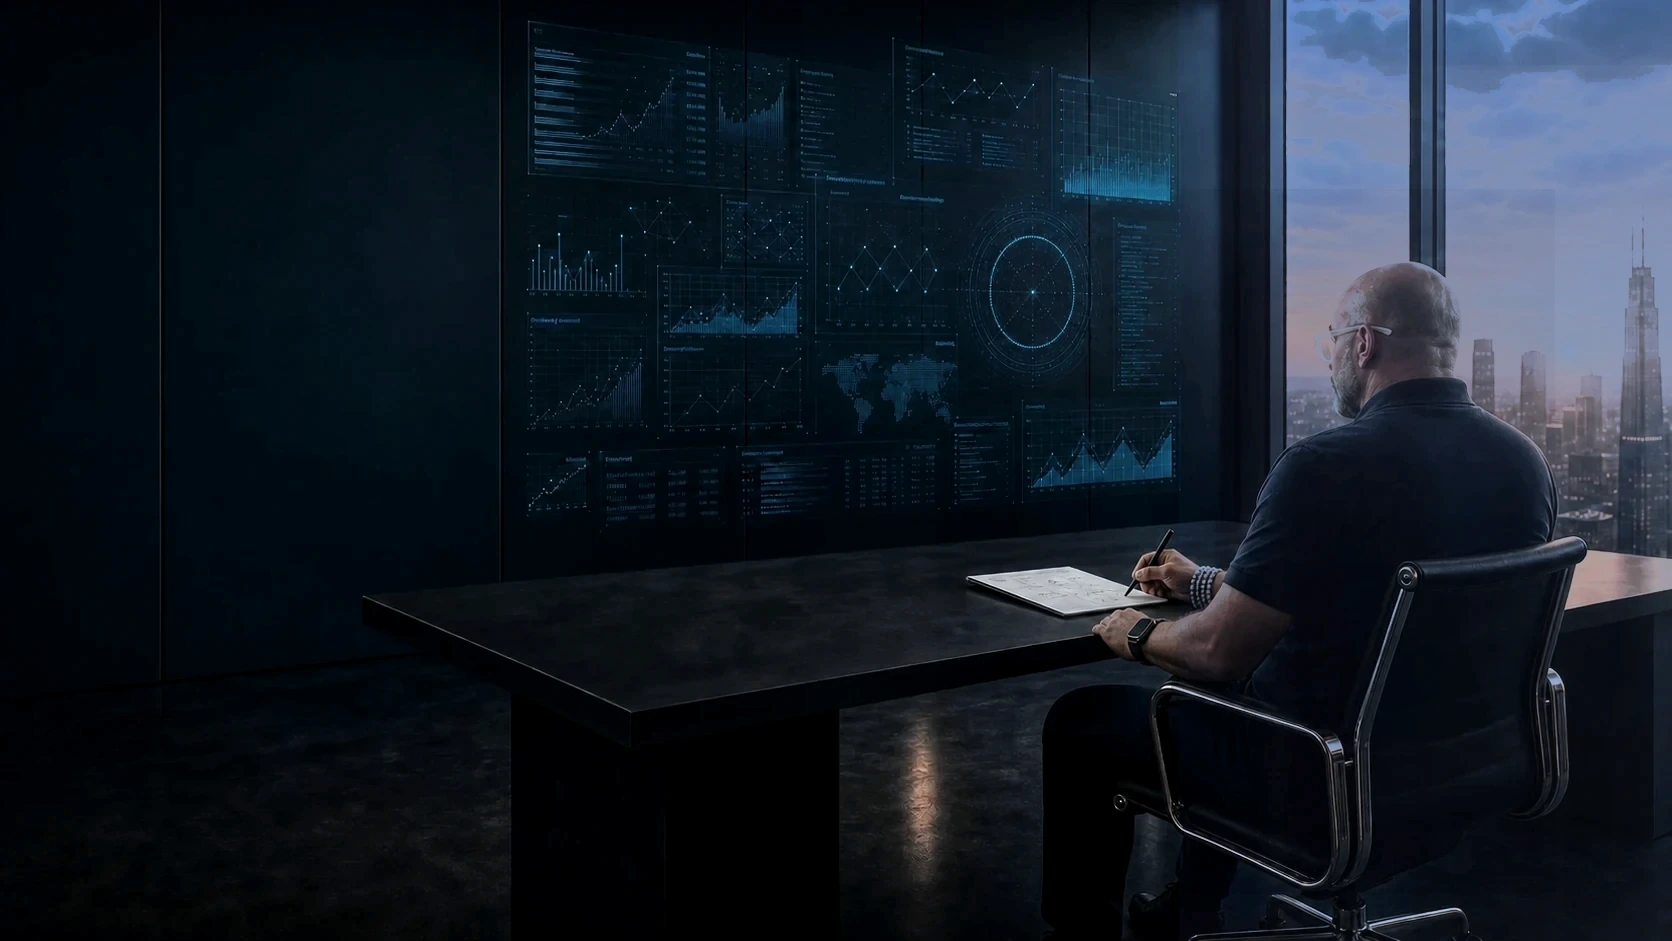
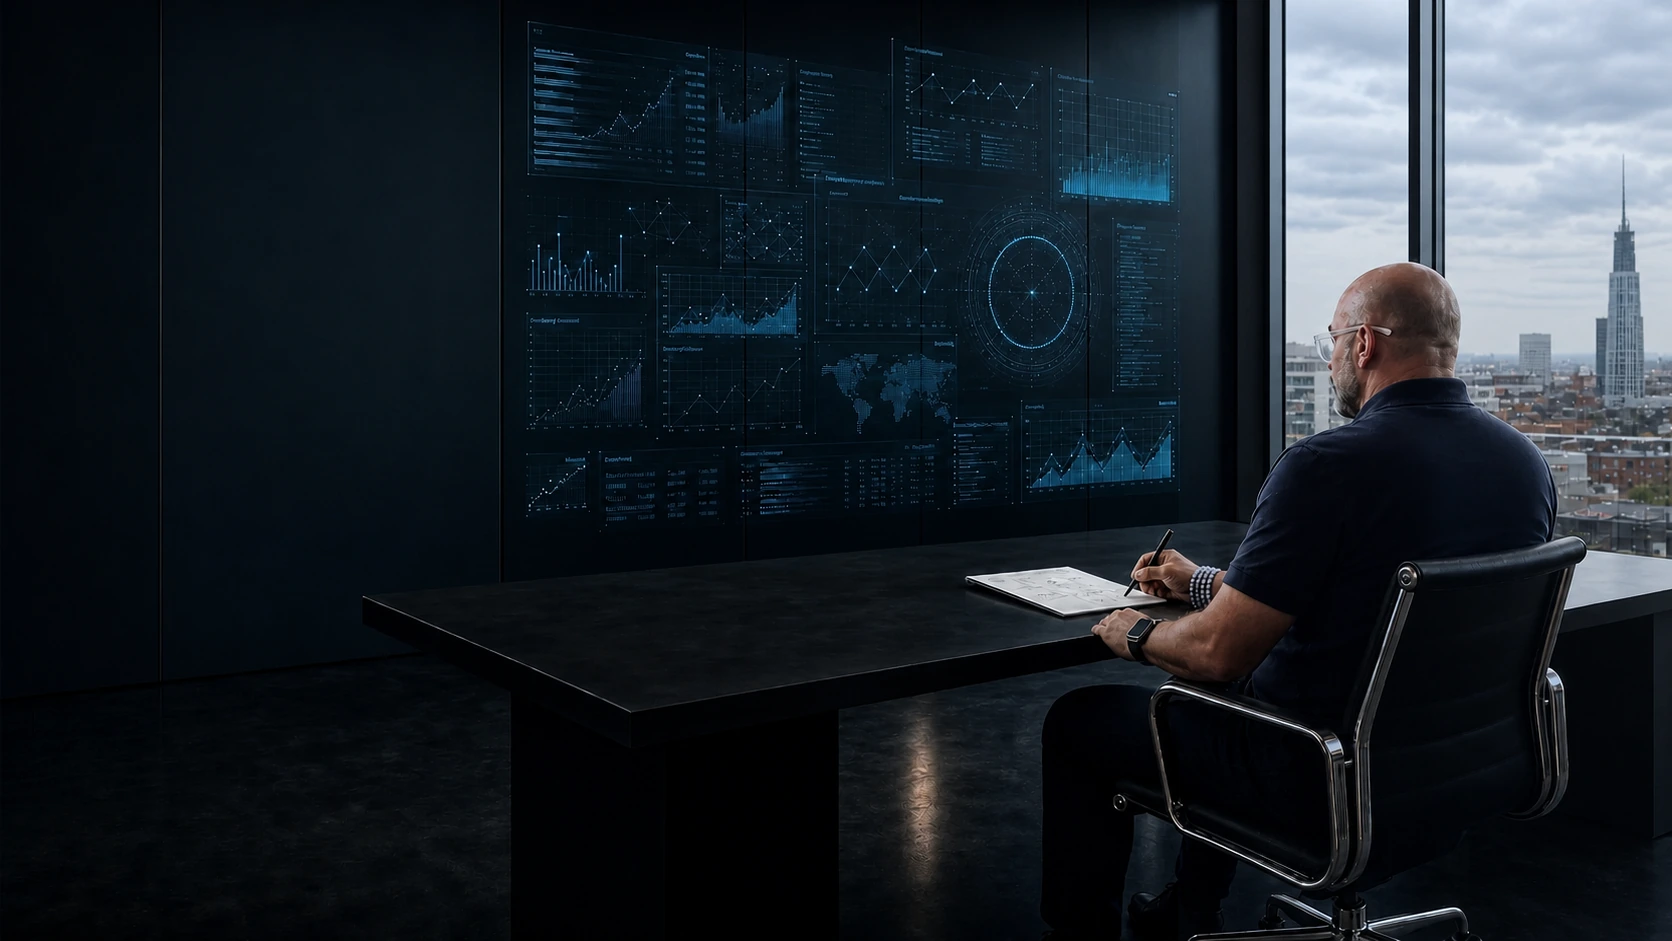
Replace daylight hero with natural window view

diff --git a/index.html b/index.html
@@ -6,17 +6,17 @@
 <meta charset="utf-8"/>
 <meta content="width=device-width, initial-scale=1" name="viewport"/>
 <title>Rafal Wilk Digital Workshop ©</title>
-<link rel="preload" as="image" fetchpriority="high" href="assets/images/private-command-center-hero-day-phase.webp?v=20260712-liveweather-4"/>
-<link rel="prefetch" as="image" href="assets/images/private-command-center-hero-dawn-phase.webp?v=20260712-liveweather-4"/>
-<link rel="prefetch" as="image" href="assets/images/private-command-center-hero-morning-phase.webp?v=20260712-liveweather-4"/>
-<link rel="prefetch" as="image" href="assets/images/private-command-center-hero-afternoon-phase.webp?v=20260712-liveweather-4"/>
-<link rel="prefetch" as="image" href="assets/images/private-command-center-hero-sunset-phase.webp?v=20260712-liveweather-4"/>
-<link rel="prefetch" as="image" href="assets/images/private-command-center-hero-night-phase.webp?v=20260712-liveweather-4"/>
-<link rel="preload" as="style" href="assets/css/platform-v2.css?v=20260712-liveweather-4"/>
+<link rel="preload" as="image" fetchpriority="high" href="assets/images/private-command-center-hero-day-phase.webp?v=20260712-liveweather-5"/>
+<link rel="prefetch" as="image" href="assets/images/private-command-center-hero-dawn-phase.webp?v=20260712-liveweather-5"/>
+<link rel="prefetch" as="image" href="assets/images/private-command-center-hero-morning-phase.webp?v=20260712-liveweather-5"/>
+<link rel="prefetch" as="image" href="assets/images/private-command-center-hero-afternoon-phase.webp?v=20260712-liveweather-5"/>
+<link rel="prefetch" as="image" href="assets/images/private-command-center-hero-sunset-phase.webp?v=20260712-liveweather-5"/>
+<link rel="prefetch" as="image" href="assets/images/private-command-center-hero-night-phase.webp?v=20260712-liveweather-5"/>
+<link rel="preload" as="style" href="assets/css/platform-v2.css?v=20260712-liveweather-5"/>
 <style id="rw-critical-home-boot">
   html{background:#05080d}
   body:not(.rw-v2-ready):not(.app-open){
-    background:#05080d url("assets/images/private-command-center-hero-day-phase.webp?v=20260712-liveweather-4") center/cover fixed no-repeat!important;
+    background:#05080d url("assets/images/private-command-center-hero-day-phase.webp?v=20260712-liveweather-5") center/cover fixed no-repeat!important;
   }
   body:not(.rw-v2-ready):not(.app-open)>*:not(script):not(style):not(link){
     visibility:hidden!important;
@@ -6592,6 +6592,6 @@ ${moduleBrain ? [summarizeBrainList(moduleBrain.rules,8),summarizeBrainList(modu
   setTimeout(install, 2200);
 })();
 </script>
-<link rel="stylesheet" href="assets/css/platform-v2.css?v=20260712-liveweather-4">
+<link rel="stylesheet" href="assets/css/platform-v2.css?v=20260712-liveweather-5">
 <script src="assets/js/contact-config.js?v=[phone redacted]"></script>
-<script src="assets/js/platform-v2.js?v=20260712-liveweather-4"></script>
+<script src="assets/js/platform-v2.js?v=20260712-liveweather-5"></script>

diff --git a/assets/css/platform-v2.css b/assets/css/platform-v2.css
@@ -6838,7 +6838,7 @@ body.rw-v2-ready .rw-v2-window-reflection{
 
 /* Live Netherlands window engine: phase images + solar/weather layers. */
 body.rw-v2-ready{
-  --rw-home-bg:url("../images/private-command-center-hero-day-phase.webp?v=20260712-liveweather-4");
+  --rw-home-bg:url("../images/private-command-center-hero-day-phase.webp?v=20260712-liveweather-5");
   --rw-sun-opacity:0;
   --rw-sun-size:72px;
   --rw-sun-x:78%;
@@ -6853,27 +6853,27 @@ body.rw-v2-ready{
 }
 
 body.rw-v2-ready.rw-v2-phase-dawn{
-  --rw-home-bg:url("../images/private-command-center-hero-dawn-phase.webp?v=20260712-liveweather-4");
+  --rw-home-bg:url("../images/private-command-center-hero-dawn-phase.webp?v=20260712-liveweather-5");
 }
 
 body.rw-v2-ready.rw-v2-phase-morning{
-  --rw-home-bg:url("../images/private-command-center-hero-morning-phase.webp?v=20260712-liveweather-4");
+  --rw-home-bg:url("../images/private-command-center-hero-morning-phase.webp?v=20260712-liveweather-5");
 }
 
 body.rw-v2-ready.rw-v2-phase-day{
-  --rw-home-bg:url("../images/private-command-center-hero-day-phase.webp?v=20260712-liveweather-4");
+  --rw-home-bg:url("../images/private-command-center-hero-day-phase.webp?v=20260712-liveweather-5");
 }
 
 body.rw-v2-ready.rw-v2-phase-afternoon{
-  --rw-home-bg:url("../images/private-command-center-hero-afternoon-phase.webp?v=20260712-liveweather-4");
+  --rw-home-bg:url("../images/private-command-center-hero-afternoon-phase.webp?v=20260712-liveweather-5");
 }
 
 body.rw-v2-ready.rw-v2-phase-sunset{
-  --rw-home-bg:url("../images/private-command-center-hero-sunset-phase.webp?v=20260712-liveweather-4");
+  --rw-home-bg:url("../images/private-command-center-hero-sunset-phase.webp?v=20260712-liveweather-5");
 }
 
 body.rw-v2-ready.rw-v2-phase-night{
-  --rw-home-bg:url("../images/private-command-center-hero-night-phase.webp?v=20260712-liveweather-4");
+  --rw-home-bg:url("../images/private-command-center-hero-night-phase.webp?v=20260712-liveweather-5");
 }
 
 body.rw-v2-ready:not(.app-open),